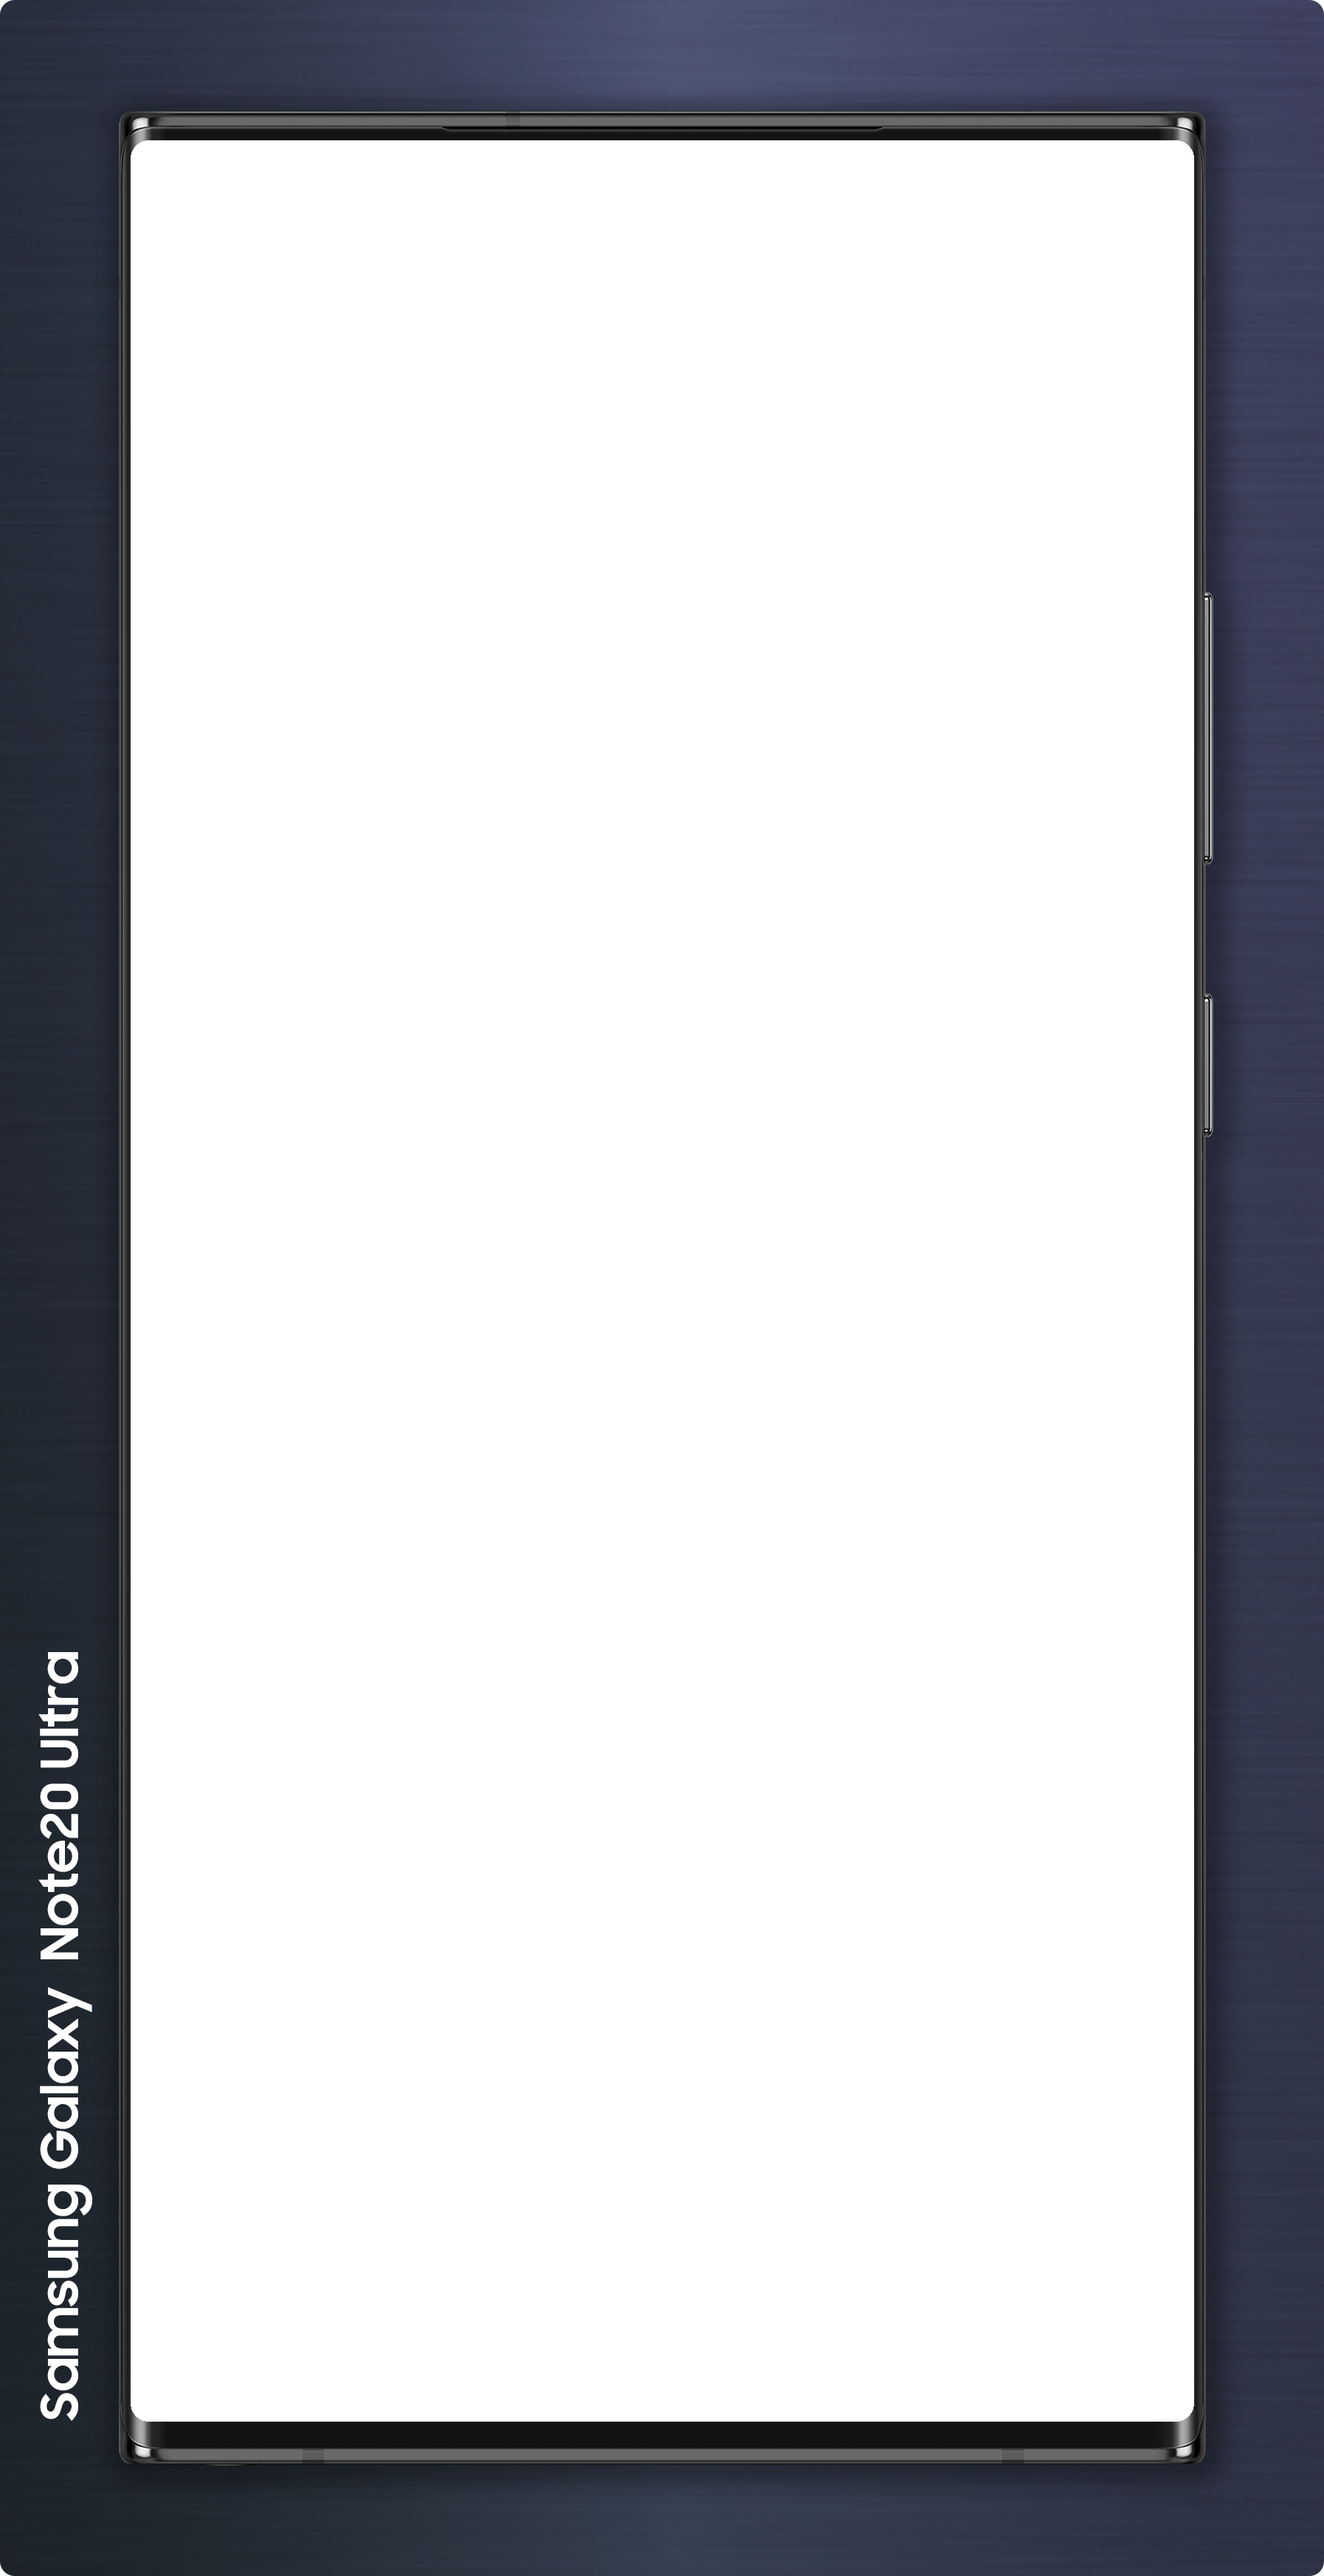
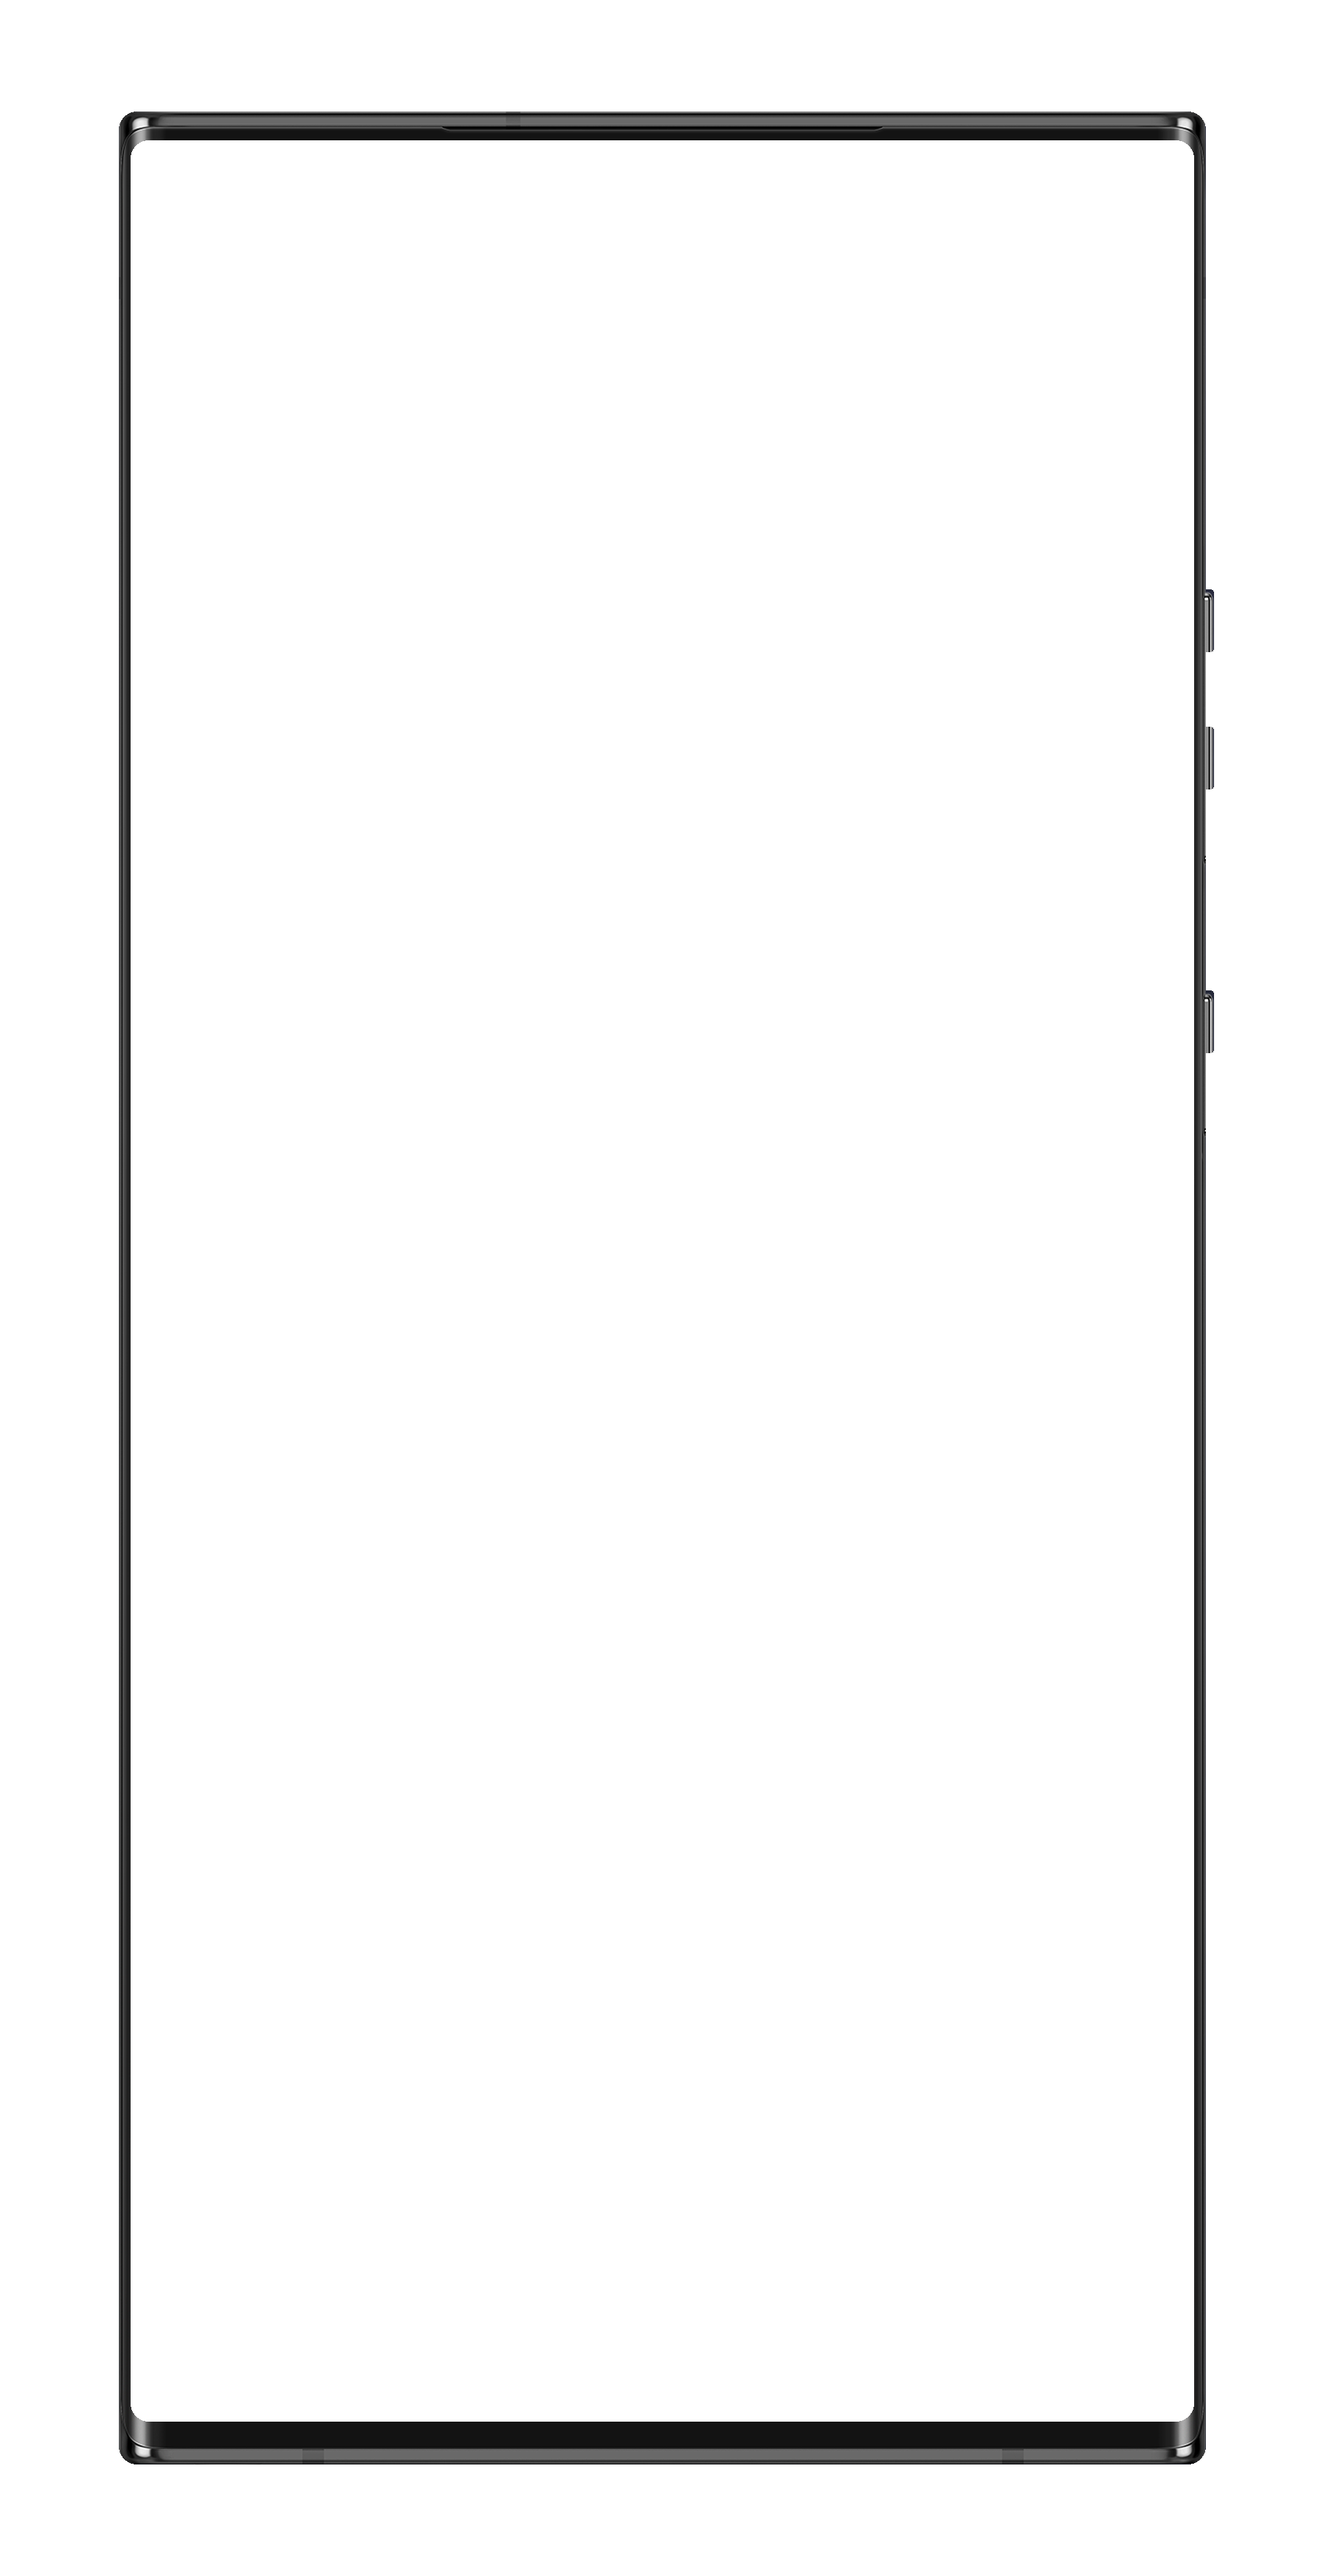
fix(android): remove background canvas from frame, preserve emu chassis and enforce app theme background

Changed region(s): [[0.0, 0.0, 1.0, 1.0]]

diff --git a/MicroCode/Views/EmbeddedAndroidDeviceView.swift b/MicroCode/Views/EmbeddedAndroidDeviceView.swift
@@ -9,21 +9,27 @@ import SwiftUI
 import AppKit
 
 struct EmbeddedAndroidDeviceView: View {
+    @EnvironmentObject var appState: AppState
     @ObservedObject var runtime: DeviceRuntimeService
     @ObservedObject private var streamService = AndroidStreamService.shared
-    var canvasColor: Color = Color(nsColor: .windowBackgroundColor)
+    var canvasColor: Color? = nil
     var onConfigure: (() -> Void)? = nil
     var onHide: (() -> Void)? = nil
     @State private var textToSend = ""
     @State private var showingTextInput = false
 
+    private var effectiveCanvasColor: Color {
+        if let canvasColor {
+            return canvasColor
+        }
+        return appState.appTheme.isGlass ? Color.clear : Color(nsColor: appState.appTheme.editorBackground)
+    }
+
     var body: some View {
         GeometryReader { proxy in
             ZStack {
-                // This is the same canvas that owns the rest of the dock.
-                // The real AVD screen is only the screen; Android's desktop
-                // window must not leak its black letterbox into MicroCode.
-                canvasColor
+                // Background follows our theme perfectly (black/dark/light)
+                effectiveCanvasColor
 
                 AndroidDeviceSurface(
                     image: runtime.embeddedAndroidImage,
@@ -36,7 +42,7 @@ struct EmbeddedAndroidDeviceView: View {
             }
             .frame(maxWidth: .infinity, maxHeight: .infinity)
         }
-        .background(canvasColor)
+        .background(effectiveCanvasColor)
         .onAppear {
             if !streamService.isStreaming && runtime.embeddedAndroidImage == nil {
                 Task {

diff --git a/MicroCode/Helpers/DeviceFrameAssets.swift b/MicroCode/Helpers/DeviceFrameAssets.swift
@@ -152,8 +152,8 @@ public enum DeviceFrameAssets {
             return img
         }
         let fallbackDirs = [
-            NSHomeDirectory() + "/Library/Android/sdk/skins/Galaxy_Note20_Ultra/device_Port-Black.png",
-            NSHomeDirectory() + "/Downloads/Galaxy_Note20_Ultra/device_Port-Black.png"
+            NSHomeDirectory() + "/Library/Android/sdk/skins/Galaxy_Note20_Ultra/device_Port-Black-frame.png",
+            NSHomeDirectory() + "/Documents/SX/codetunner-native/MicroCode/Resources/samsung_note20_ultra_frame.png"
         ]
         for path in fallbackDirs {
             if FileManager.default.fileExists(atPath: path),
